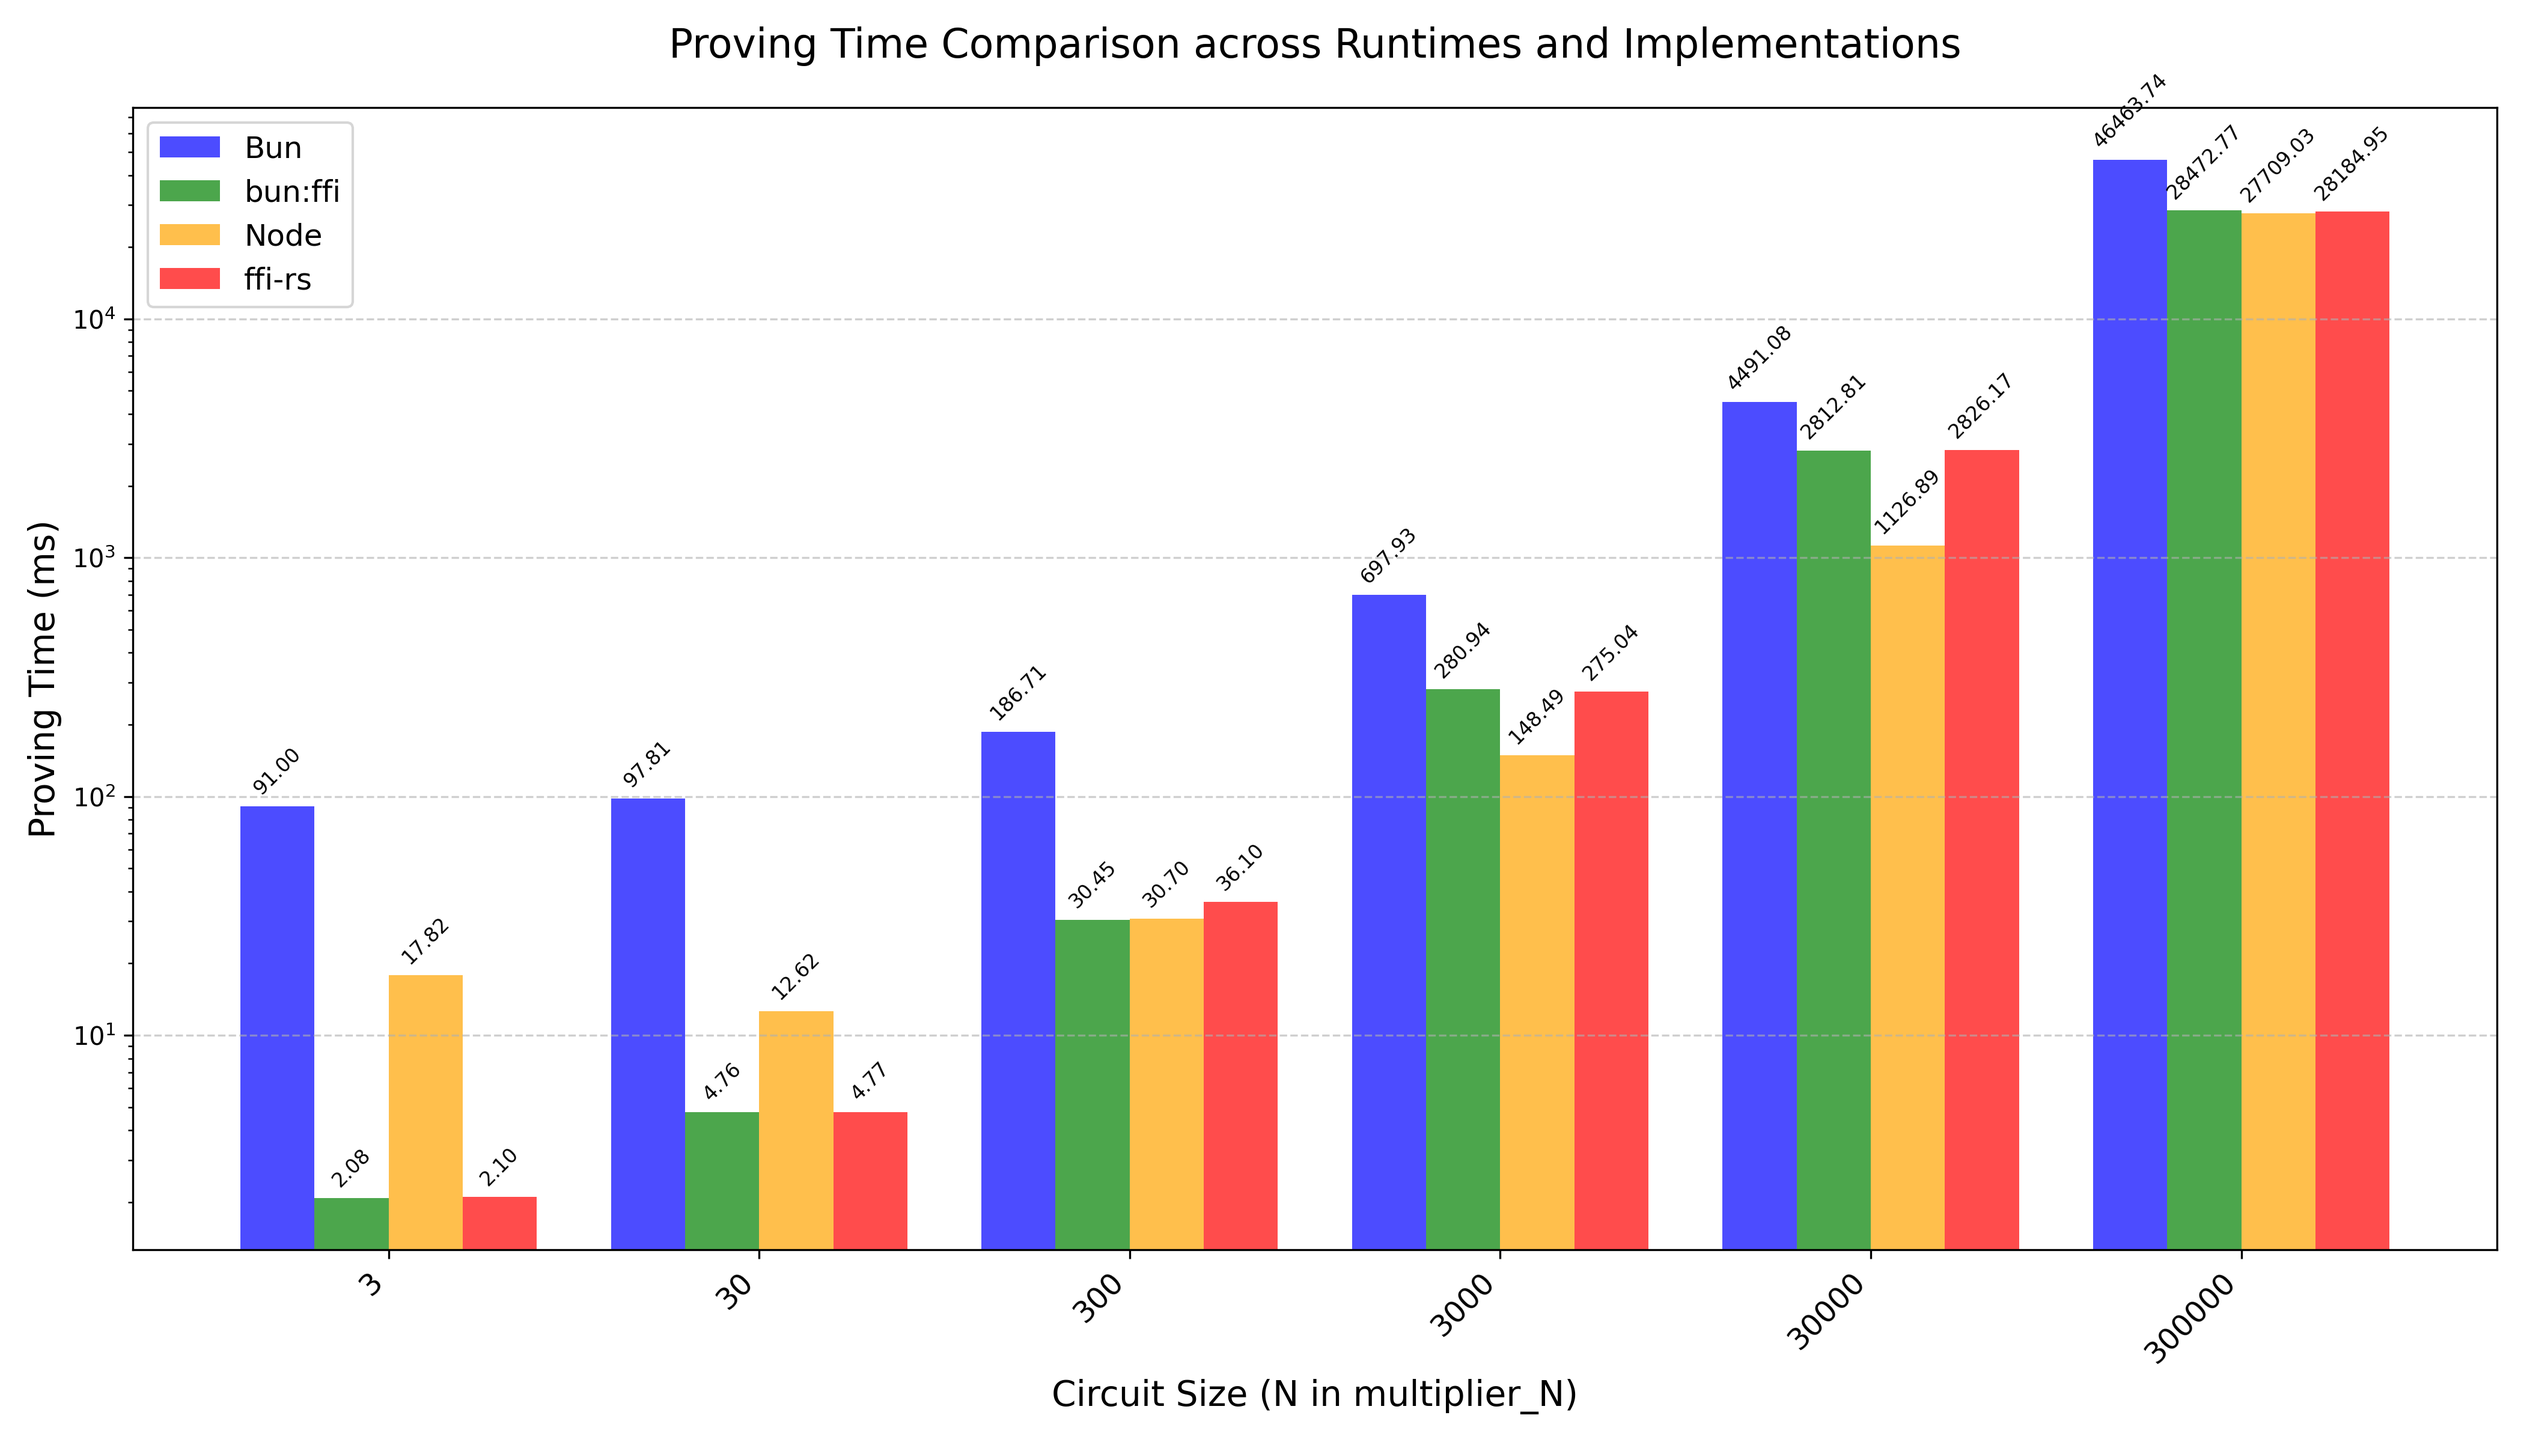
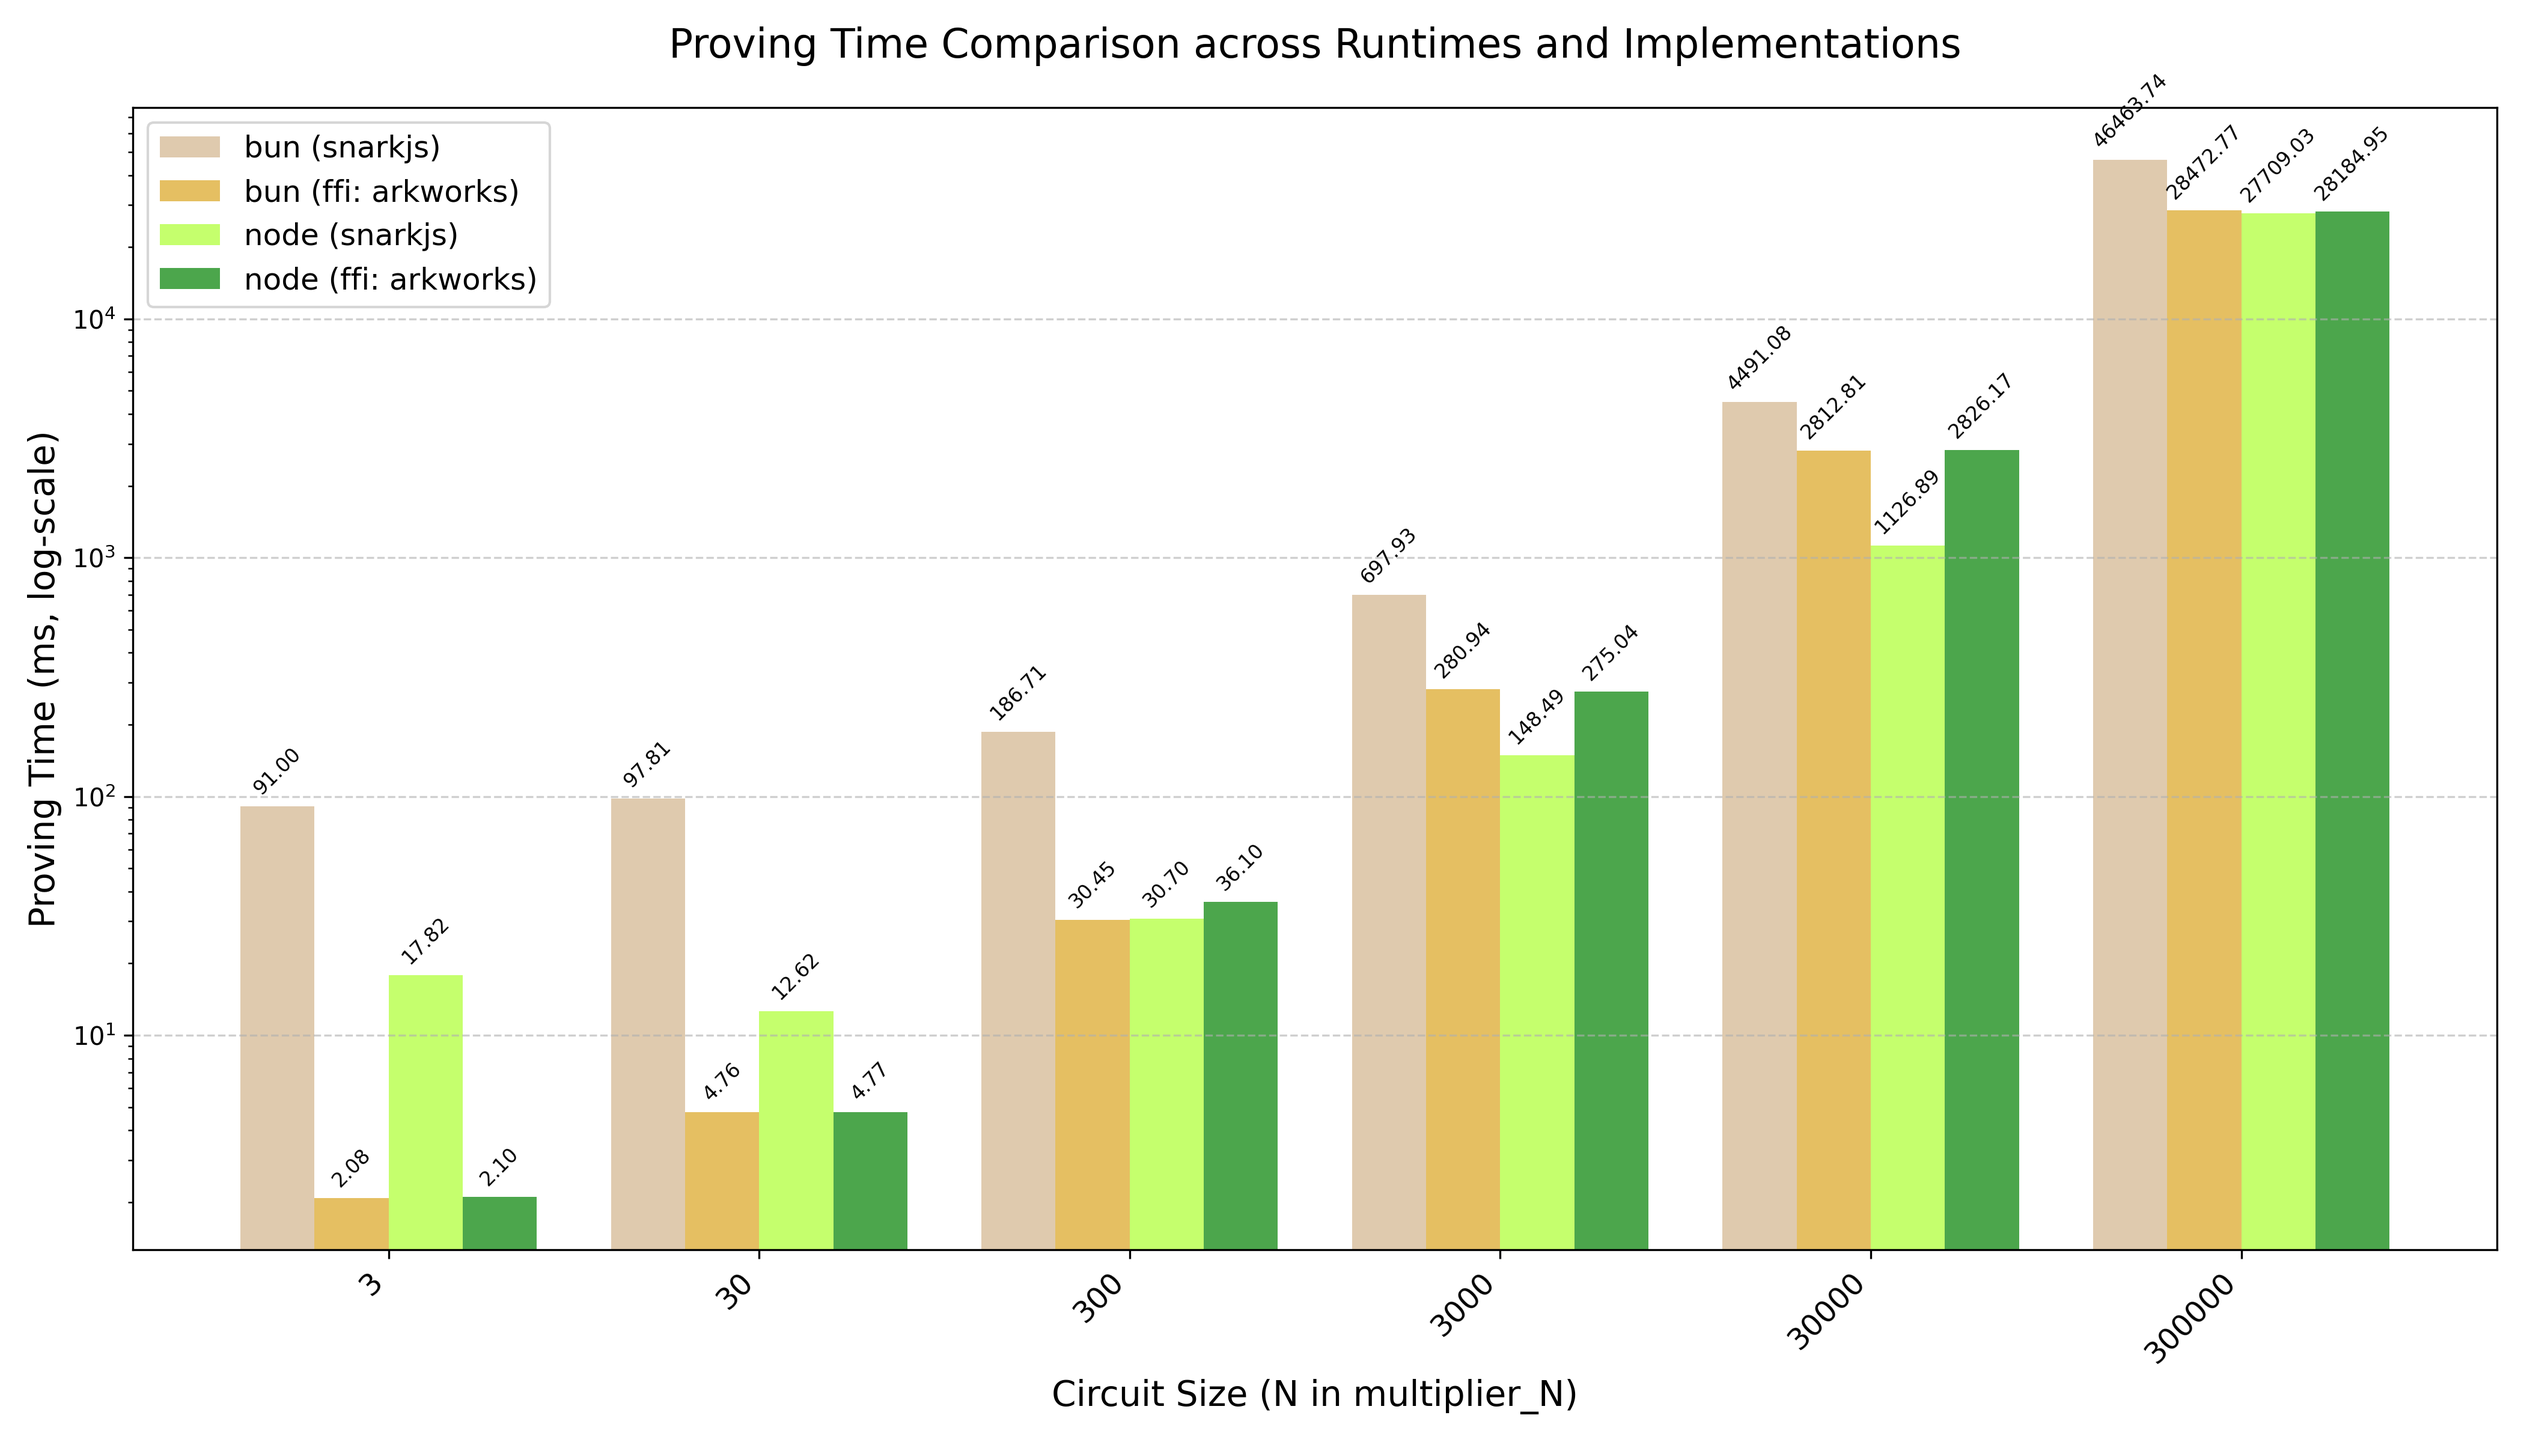
more docs [skip ci]

Changed region(s): [[0.0936, 0.0938, 0.9669, 0.875], [0.0624, 0.0938, 0.2183, 0.2188], [0.0, 0.3125, 0.0312, 0.5938]]

diff --git a/example/src/index.ts b/example/src/index.ts
@@ -80,7 +80,7 @@ for (const circomkitFFI of [
     );
   }
 
-  for (const N of [3, 30 /* 300, 3000, 30000, 300000*/]) {
+  for (const N of [3, 30, 300, 3000, 30000, 300000, 600000]) {
     const IN = Array.from({ length: N }, (_, i) => i + 1);
     const circuitName = `multiplier_${N}`;
     const inputName = "default";

diff --git a/bench/plot.py b/bench/plot.py
@@ -1,11 +1,10 @@
 import matplotlib.pyplot as plt
 import numpy as np
 
-# Data
+# x-axis
 multipliers = ["3", "30", "300", "3000", "30000", "300000"]
-n_values = [3, 30, 300, 3000, 30000, 300000]  # numeric values for better display
 
-# Data from benchmarks
+# data taken from raw readme
 bun_ffi_times = [2.08, 4.76, 30.45, 280.94, 2812.81, 28472.77]  # Arkworks on Bun
 bun_times = [91.00, 97.81, 186.71, 697.93, 4491.08, 46463.74]  # SnarkJS on Bun
 ffi_rs_times = [2.10, 4.77, 36.10, 275.04, 2826.17, 28184.95]  # Arkworks on Node
@@ -18,21 +17,43 @@ width = 0.2  # narrower width to fit 4 bars
 # Plotting
 fig, ax = plt.subplots(figsize=(14, 8))
 
-# Bars for all four datasets
-bar1 = ax.bar(x - 1.5 * width, bun_times, width, label="Bun", color="blue", alpha=0.7)
+# bars for datasets
+bar1 = ax.bar(
+    x - 1.5 * width,
+    bun_times,
+    width,
+    label="bun (snarkjs)",
+    color="tan",
+    alpha=0.7,
+)
 bar2 = ax.bar(
-    x - 0.5 * width, bun_ffi_times, width, label="bun:ffi", color="green", alpha=0.7
+    x - 0.5 * width,
+    bun_ffi_times,
+    width,
+    label="bun (ffi: arkworks)",
+    color="goldenrod",
+    alpha=0.7,
 )
 bar3 = ax.bar(
-    x + 0.5 * width, node_times, width, label="Node", color="orange", alpha=0.7
+    x + 0.5 * width,
+    node_times,
+    width,
+    label="node (snarkjs)",
+    color="greenyellow",
+    alpha=0.7,
 )
 bar4 = ax.bar(
-    x + 1.5 * width, ffi_rs_times, width, label="ffi-rs", color="red", alpha=0.7
+    x + 1.5 * width,
+    ffi_rs_times,
+    width,
+    label="node (ffi: arkworks)",
+    color="green",
+    alpha=0.7,
 )
 
-# Add labels, title, and custom x-axis tick labels
+# labels & title
 ax.set_xlabel("Circuit Size (N in multiplier_N)", fontsize=14)
-ax.set_ylabel("Proving Time (ms)", fontsize=14)
+ax.set_ylabel("Proving Time (ms, log-scale)", fontsize=14)
 ax.set_yscale("log")  # Set y-axis to logarithmic scale
 ax.set_title(
     "Proving Time Comparison across Runtimes and Implementations", fontsize=16, pad=20
@@ -40,12 +61,9 @@ ax.set_title(
 ax.set_xticks(x)
 ax.set_xticklabels(multipliers, rotation=45, ha="right", fontsize=12)
 ax.legend(fontsize=12)
-
-# Add grid lines for better readability
 ax.grid(True, axis="y", linestyle="--", alpha=0.6)
 
 
-# Annotate the bars with their values
 def annotate_bars(bars):
     for bar in bars:
         height = bar.get_height()
@@ -66,9 +84,9 @@ annotate_bars(bar2)
 annotate_bars(bar3)
 annotate_bars(bar4)
 
-# Adjust layout to prevent clipping of labels
+# adjust layout to prevent clipping of labels
 plt.tight_layout()
 
-# Save the plot
+# save the plot
 plt.savefig("plot.png", dpi=300)
 plt.close()

diff --git a/bench/README.md b/bench/README.md
@@ -10,14 +10,16 @@ uv run plot.py
 
 We have 4 bars here:
 
-- **Bun**: using Bun runtime for SnarkJS, multi-threading disabled due to [snarkjs#490](https://github.com/iden3/snarkjs/pull/490)
-- **bun:ffi**: using Bun runtime with `bun:ffi` to call Arkworks
-- **Node**: using Node runtime for SnarkJS, with multi-threading
-- **ffi-rs**: using Node runtime with `ffi-rs` to call Arkworks
+- **bun**: using Bun runtime for SnarkJS, multi-threading disabled due to [snarkjs#490](https://github.com/iden3/snarkjs/pull/490)
+- **bun (ffi: arkworks)**: using Bun runtime with `bun:ffi` to call Arkworks
+- **node**: using Node runtime for SnarkJS, with multi-threading
+- **node (ffi: arkworks)**: using Node runtime with `ffi-rs` to call Arkworks
 
-All benchmarks work over a computed raw witness file, and the proof is checked to be verified via SnarkJS as well.
+- The results show that using FFI does not help with performance w.r.t Node runtime, unless the circuit is very small (e.g. $\lt 3000$ constraints).
 
-## Raw Results
+- Using Bun, it is always better to use the FFI library, notably because the SnarkJS prover in Bun works in a single thread, unlike its NodeJS counter-part that runs multi-threaded. Using FFI saves some time there, at the scale of x2 as the circuit size grows.
+
+## Settings
 
 Benchmark settings:
 
@@ -26,6 +28,10 @@ Benchmark settings:
 - NodeJS v22.13.1
 - 1 warm-up with proof verification for sanity check
 - 5 iterations for each case, average reported
+
+All benchmarks work over a computed raw witness file, and the proof is checked to be verified via SnarkJS as well.
+
+## Raw Outputs
 
 The raw results for Bun runtime are shown below:
 
